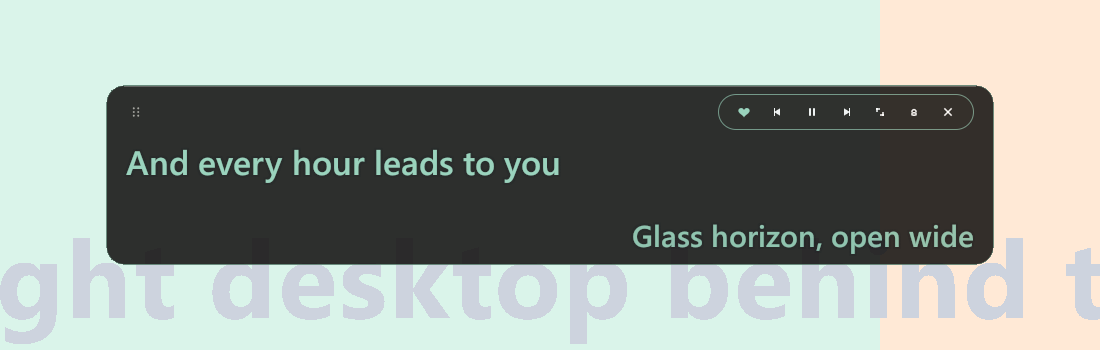
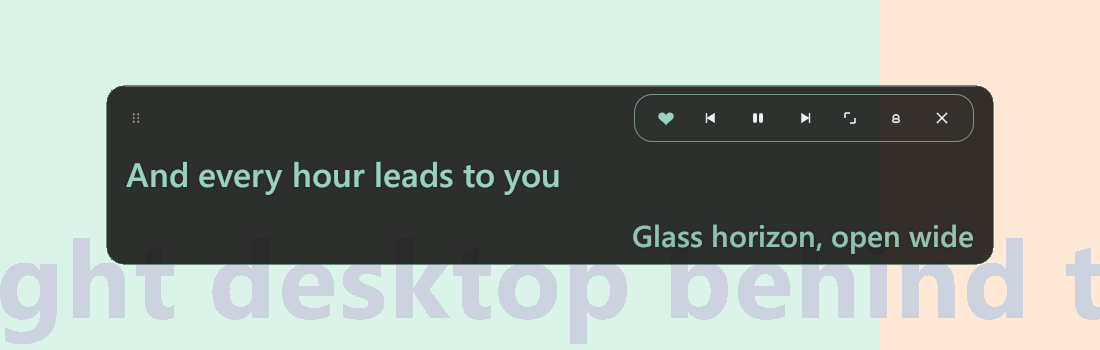
fix(desktop): enlarge lyric toolbar controls

diff --git a/base/app/src/ui/companion.rs b/base/app/src/ui/companion.rs
@@ -660,7 +660,6 @@ fn render_lyrics(
     let locked = snapshot.lyrics_locked;
     let outline = with_alpha(Color32::from_rgb(8, 7, 6), 235);
     let active_size = snapshot.desktop_lyrics_font_size.clamp(18.0, 56.0);
-    let toolbar_button = 32.0;
 
     egui::CentralPanel::default()
         .frame(egui::Frame::NONE.fill(Color32::TRANSPARENT))
@@ -673,11 +672,14 @@ fn render_lyrics(
             let mut body = inner;
 
             if lyrics_chrome_visible(locked) {
-                let header = Rect::from_min_size(inner.min, Vec2::new(inner.width(), 38.0));
+                let toolbar_button = if inner.width() >= 560.0 { 44.0 } else { 38.0 };
+                let header_height = toolbar_button + 6.0;
                 let pill_width = 7.0 * toolbar_button + 6.0 * 2.0 + 20.0;
+                let header =
+                    Rect::from_min_size(inner.min, Vec2::new(inner.width(), header_height));
                 let pill = Rect::from_min_size(
                     egui::pos2(header.right() - pill_width, header.top() + 1.0),
-                    Vec2::new(pill_width, 36.0),
+                    Vec2::new(pill_width, toolbar_button + 4.0),
                 );
                 let drag_rect = Rect::from_min_max(
                     header.min,

diff --git a/docs/feature-gap-and-roadmap.md b/docs/feature-gap-and-roadmap.md
@@ -450,7 +450,7 @@
 - 隐藏窗口：Windows 下 winit 不处理隐藏窗口的常规重绘，托盘/热键回调会向主窗口投递 `WM_PAINT` 唤醒更新；播放、扫描、睡眠定时或待保存时另有 100 ms 心跳。
 - 安全兜底：只有确认托盘图标已注册时才允许关闭/最小化到托盘，避免窗口隐藏后无法找回。
 - 媒体键/SMTC：已用 `windows` crate 的 `SystemMediaTransportControls`，通过主窗口句柄注册；元数据、播放状态、时间轴、随机/循环和播放/暂停/上一首/下一首按钮与主窗口同步。
-- 桌面歌词：egui deferred viewport，无边框、置顶、可拖动/缩放；当前行左上、下一行右下，使用现有每首歌词偏移与透明度。每行单行显示，字号按窗口宽高自动缩小，避免换行和裁剪。解锁态用 `LWA_ALPHA`（215/255）加圆角窗口区域实现半透明深色卡片，并绘制 32 px 工具栏；锁定态切换黑色 `LWA_COLORKEY`，只保留描边歌词。Windows 用 `WM_NCHITTEST -> HTTRANSPARENT` 实现锁定穿透，小锁浮钮、托盘菜单或设置页可解锁；解锁态工具栏支持收藏、上一首、播放/暂停、下一首、打开播放器、锁定和关闭。
+- 桌面歌词：egui deferred viewport，无边框、置顶、可拖动/缩放；当前行左上、下一行右下，使用现有每首歌词偏移与透明度。每行单行显示，字号按窗口宽高自动缩小，避免换行和裁剪。解锁态用 `LWA_ALPHA`（215/255）加圆角窗口区域实现半透明深色卡片，并绘制 44 px（窄窗口 38 px）工具栏；锁定态切换黑色 `LWA_COLORKEY`，只保留描边歌词。Windows 用 `WM_NCHITTEST -> HTTRANSPARENT` 实现锁定穿透，小锁浮钮、托盘菜单或设置页可解锁；解锁态工具栏支持收藏、上一首、播放/暂停、下一首、打开播放器、锁定和关闭。
 - 迷你播放器：独立置顶小窗口，封面、标题/艺术家/专辑、上一首/播放/下一首、随机/循环、进度拖动。
 - 首次显示位置：桌面歌词默认在屏幕底部居中，迷你播放器默认在右上角；同一会话内关闭/重开会记住拖动后的位置和尺寸。
 
@@ -716,6 +716,7 @@
 交付：
 
 - PC 桌面歌词保留酷狗式左右双行和长歌词自动缩放；解锁态改为半透明深色卡片（`LWA_ALPHA` 215/255），锁定态使用黑色 color key 全透明，只保留描边歌词和小锁。
+- PC 桌面歌词工具栏从 32 px 放大到 44 px（窄窗口 38 px），图标随之增大。
 - PC 设置页字号滑杆增加 A− / A+；正在播放页新增“词”快捷按钮，只控制桌面歌词显隐，字号/透明度/锁定仍在设置中。
 - Android 悬浮歌词改为紧凑单行：只显示当前歌词，不显示歌名、上一行/下一行、进度条和播放控制；长句自动缩小以保持一行完整。
 - Android 解锁态为小型半透明卡片（拖动条、锁定、关闭）；锁定态移除卡片和按钮，只保留描边歌词并整窗穿透，在设置页解锁。
@@ -807,6 +808,7 @@
 | 2026-11-23 | 桌面歌词改造 | 完成 | PC 解锁态半透明、锁定态全透明、浮钮解锁、收藏/上一首/下一首/播放控制、PC 43 项测试 |
 | 2026-11-23 | 桌面歌词酷狗式改版 | 完成 | PC 左右错位双行、长歌词自动缩放完整显示、文字描边、PC 46 项测试 |
 | 2026-11-23 | 桌面/悬浮歌词精简 | 完成 | PC 解锁半透明卡片/锁定全透明、字号 A−/A+、播放页“词”；Android 单行无卡片锁定态、字号缩放、“词”开关；PC 46 + Android 47 + 7 项迁移测试 |
+| 2026-11-23 | 桌面歌词按钮放大 | 完成 | PC 工具栏 32 → 44 px（窄窗口 38 px），图标同步放大，PC 46 项测试 |
 | 2026-11-23 | Bugfix | 完成 | PC M4A/MP4 解码崩溃修复、内容探测标签/时长、损坏文件错误提示、PC 41 项测试 |
 | 下一步 | Round 7-E | 待定 | 真正的交叉淡化、批量重命名、Android 磁贴/Auto |
 
@@ -896,3 +898,4 @@ Round 4 的截图、数据库迁移和计数验证见 `base/app/checks/round-4/`
 | v0.12.2 | 2026-11-23 | 桌面歌词改造：解锁态半透明、锁定态全透明、浮钮解锁、收藏/上一首/下一首/播放控制 |
 | v0.12.3 | 2026-11-23 | 桌面歌词酷狗式改版：左右双行、长歌词自动缩放完整显示、文字描边 |
 | v0.12.4 | 2026-11-23 | 桌面/悬浮歌词精简：PC 解锁半透明卡片、Android 单行无卡片锁定态、A−/A+ 与播放页“词”开关 |
+| v0.12.5 | 2026-11-23 | 桌面歌词工具栏放大：44 px 按钮（窄窗口 38 px），图标同步放大 |

diff --git a/base/app/checks/desktop-lyrics-kugou/README.md b/base/app/checks/desktop-lyrics-kugou/README.md
@@ -14,7 +14,8 @@ to the layout KuGou uses on desktop:
   semi-transparent card and bright wallpapers.
 
 Unlocked mode uses a **semi-transparent rounded card** with a thin accent frame and
-a floating dark toolbar of 32 px buttons (favourite, previous, play/pause, next,
+a floating dark toolbar of 44 px buttons (38 px in narrow windows; favourite,
+previous, play/pause, next,
 open player, lock and close). The whole lyric body is draggable and double-click
 opens Now Playing. Locked mode draws **no card, frame or toolbar**: only the
 outlined lyrics and the small unlock puck remain, fully transparent and
@@ -33,9 +34,9 @@ hides the desktop lyrics without opening Settings.
     height. There is no wrapping or truncation.
   - `paint_outlined_line` paints a near-black outline in eight directions, then
     the accent-coloured fill.
-  - the unlocked layout draws the dark rounded card, a 38 px header with the grip
-    and a 32 px-button toolbar pill; the current line starts below it, left
-    aligned.
+  - the unlocked layout draws the dark rounded card, a header with the grip and a
+    toolbar pill of 44 px buttons (38 px when the card is narrower than 560 px);
+    the current line starts below it, left aligned.
   - the next line is painted at the bottom-right of the available body.
   - default window size is `900x190`; the minimum is `460x160`.
 - `base/app/src/desktop.rs`
@@ -86,7 +87,7 @@ scale to fit without clipping.
 
 | File | What it shows |
 |---|---|
-| `01-pc-lyrics-unlocked-900x190.png` | Semi-transparent card, current line left, next line right, 32 px toolbar |
+| `01-pc-lyrics-unlocked-900x190.png` | Semi-transparent card, current line left, next line right, 44 px toolbar |
 | `02-pc-lyrics-locked-900x190.png` | Fully transparent locked overlay: no card/toolbar, crisp outlined text, unlock puck |
 | `03-pc-lyrics-narrow-460x160.png` | Minimum width: a long line is scaled to fit completely, next line right aligned |
 | `04-pc-lyrics-narrow-680x160.png` | Reference-like width: both long lines fully visible |
@@ -100,7 +101,7 @@ scale to fit without clipping.
 
 ```text
 dist/Lilt-0.1.0-win64/Lilt.exe        11,204,096 bytes  (PE subsystem 2)
-dist/Lilt-0.1.0-win64-portable.zip    18,193,446 bytes
+dist/Lilt-0.1.0-win64-portable.zip    18,192,670 bytes
 ```
 
 `package.ps1 pc` completed successfully after the change.
@@ -114,6 +115,6 @@ dist/Lilt-0.1.0-win64-portable.zip    18,193,446 bytes
 - The outline is painted as eight offset text layers. This is intentional and
   keeps the text sharp on both dark and bright backgrounds, but it does not
   scale like a vector stroke; very small fitted sizes use a 1 px outline.
-- The toolbar is always visible while unlocked (not hover-only), so it takes a
-  38 px strip at the top of the window.
+- The toolbar is always visible while unlocked (not hover-only), so it takes an
+  approximately 50 px strip at the top of a wide window (44 px in narrow ones).
 - Android has separate evidence in `../android-floating-lyrics-compact/`.

diff --git a/base/app/README.md b/base/app/README.md
@@ -140,7 +140,8 @@ Set `LILT_DATA_DIR` to use a different data folder.
   the bottom, and both use the same per-song offset and opacity settings as the now-playing
   panel. Lines never wrap or ellipsize; the font shrinks to fit so the full text is visible
   even in a narrow window. Text is drawn with a dark outline. When unlocked the overlay is a
-  semi-transparent rounded dark card with a thin accent frame and a floating 32 px toolbar
+  semi-transparent rounded dark card with a thin accent frame and a large floating toolbar
+  (44 px targets, 38 px in narrow windows)
   (favourite, previous, play/pause, next, open player, lock and close); the whole lyric area
   can be dragged and double-click opens Now Playing. Locking removes the card and toolbar,
   makes the window fully transparent and click-through, and leaves only the outlined lyrics
